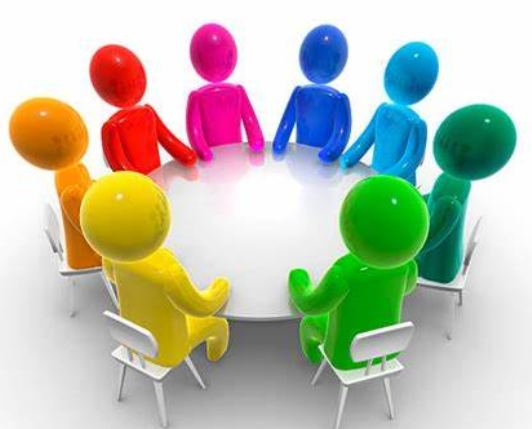
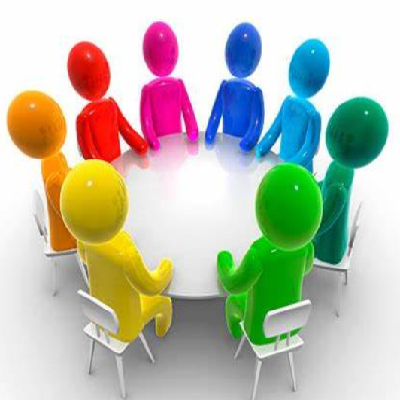
m

diff --git a/index.html b/index.html
@@ -87,7 +87,7 @@
         <div style="text-align: center">
           <h3>时间: 2022年10月 (三天)</h3>
           <h3>地址: 喀什国际发展中心</h3>
-          <h3>酒店: 喀什宾馆、喀什喀什深业丽笙酒店</h3>
+          <h3>酒店: 喀什宾馆、喀什深业丽笙酒店</h3>
           <h3>大会主席: 李欢博士</h3>
           <h3>大会筹备秘书处秘书长: 陈伦德</h3>
         </div>
@@ -398,7 +398,7 @@
 
       </div>
 
-      <div class="container-fluid" style="width: 50%;" data-aos="fade-up" data-aos-delay="200">
+      <div class="container-fluid" style="width: 70%;" data-aos="fade-up" data-aos-delay="200">
 
         <div class="portfolio-isotope" data-portfolio-filter="*" data-portfolio-layout="masonry"
           data-portfolio-sort="original-order">

diff --git a/assets/img/img_to_resize/image_resize.py b/assets/img/img_to_resize/image_resize.py
@@ -1,0 +1,13 @@
+from PIL import Image
+import os
+import PIL
+import glob
+
+size = 100
+
+images = [file for file in os.listdir() if file.endswith(('jpeg', 'png', 'jpg'))]
+for image_name in images:
+    img = Image.open(image_name)
+    image = img.resize((100, 100), PIL.Image.NEAREST)
+    image.save(image_name)
+	
